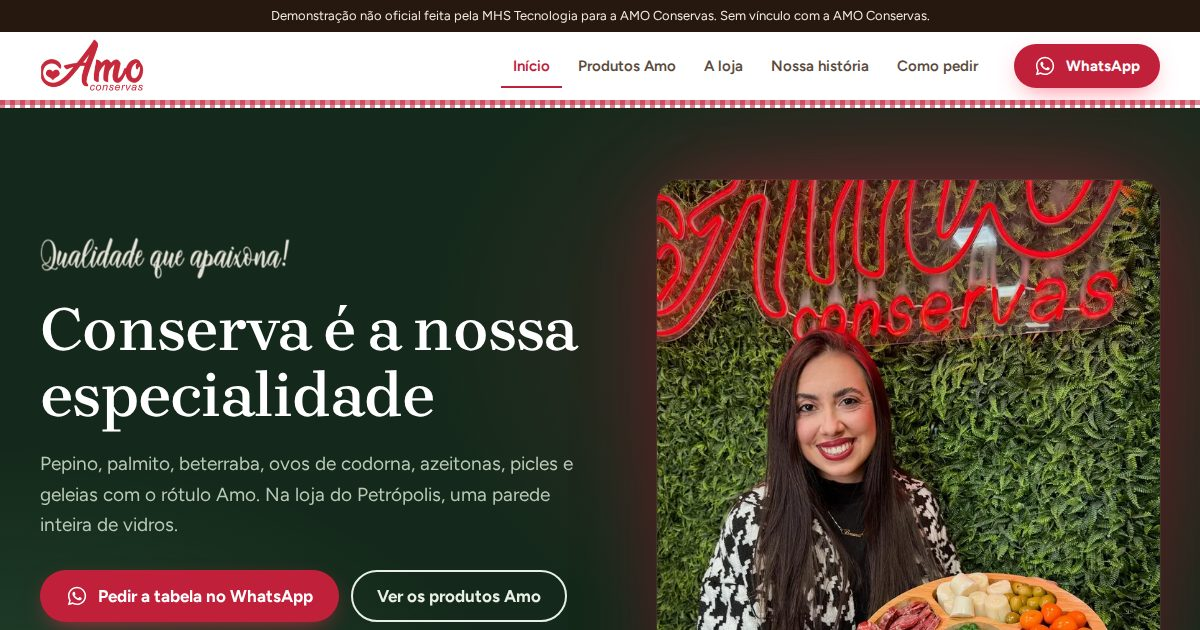
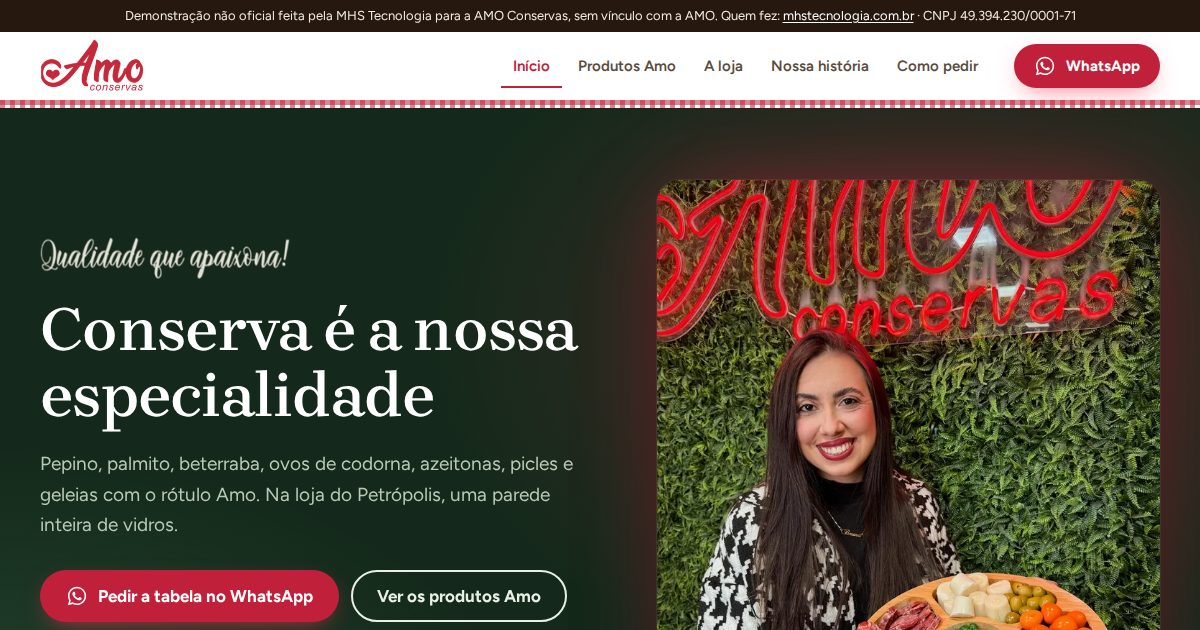
Previews: 23 ativos

Changed region(s): [[0.0925, 0.0, 0.8942, 0.0603]]

diff --git a/amo-conservas-joinville-sc/como-pedir.html b/amo-conservas-joinville-sc/como-pedir.html
@@ -14,7 +14,7 @@
 <script>document.documentElement.classList.add('js')</script>
 </head>
 <body>
-<div class="aviso" role="note">Demonstração não oficial feita pela MHS Tecnologia para a AMO Conservas. Sem vínculo com a AMO Conservas.</div>
+<div class="aviso" role="note">Demonstração não oficial feita pela MHS Tecnologia para a AMO Conservas, sem vínculo com a AMO. Quem fez: <a href="https://mhstecnologia.com.br/pt">mhstecnologia.com.br</a> · CNPJ 49.394.230/0001-71</div>
 <header class="cab">
   <div class="wrap">
     <a class="marca" href="index.html" aria-label="Amo Conservas, página inicial"><img src="img/logo-200.webp" srcset="img/logo-200.webp 1x, img/logo-400.webp 2x" width="200" height="104" alt="Amo Conservas"></a>

diff --git a/amo-conservas-joinville-sc/historia.html b/amo-conservas-joinville-sc/historia.html
@@ -15,7 +15,7 @@
 <script>document.documentElement.classList.add('js')</script>
 </head>
 <body>
-<div class="aviso" role="note">Demonstração não oficial feita pela MHS Tecnologia para a AMO Conservas. Sem vínculo com a AMO Conservas.</div>
+<div class="aviso" role="note">Demonstração não oficial feita pela MHS Tecnologia para a AMO Conservas, sem vínculo com a AMO. Quem fez: <a href="https://mhstecnologia.com.br/pt">mhstecnologia.com.br</a> · CNPJ 49.394.230/0001-71</div>
 <header class="cab">
   <div class="wrap">
     <a class="marca" href="index.html" aria-label="Amo Conservas, página inicial"><img src="img/logo-200.webp" srcset="img/logo-200.webp 1x, img/logo-400.webp 2x" width="200" height="104" alt="Amo Conservas"></a>

diff --git a/amo-conservas-joinville-sc/loja.html b/amo-conservas-joinville-sc/loja.html
@@ -15,7 +15,7 @@
 <script>document.documentElement.classList.add('js')</script>
 </head>
 <body>
-<div class="aviso" role="note">Demonstração não oficial feita pela MHS Tecnologia para a AMO Conservas. Sem vínculo com a AMO Conservas.</div>
+<div class="aviso" role="note">Demonstração não oficial feita pela MHS Tecnologia para a AMO Conservas, sem vínculo com a AMO. Quem fez: <a href="https://mhstecnologia.com.br/pt">mhstecnologia.com.br</a> · CNPJ 49.394.230/0001-71</div>
 <header class="cab">
   <div class="wrap">
     <a class="marca" href="index.html" aria-label="Amo Conservas, página inicial"><img src="img/logo-200.webp" srcset="img/logo-200.webp 1x, img/logo-400.webp 2x" width="200" height="104" alt="Amo Conservas"></a>

diff --git a/amo-conservas-joinville-sc/produtos.html b/amo-conservas-joinville-sc/produtos.html
@@ -15,7 +15,7 @@
 <script>document.documentElement.classList.add('js')</script>
 </head>
 <body>
-<div class="aviso" role="note">Demonstração não oficial feita pela MHS Tecnologia para a AMO Conservas. Sem vínculo com a AMO Conservas.</div>
+<div class="aviso" role="note">Demonstração não oficial feita pela MHS Tecnologia para a AMO Conservas, sem vínculo com a AMO. Quem fez: <a href="https://mhstecnologia.com.br/pt">mhstecnologia.com.br</a> · CNPJ 49.394.230/0001-71</div>
 <header class="cab">
   <div class="wrap">
     <a class="marca" href="index.html" aria-label="Amo Conservas, página inicial"><img src="img/logo-200.webp" srcset="img/logo-200.webp 1x, img/logo-400.webp 2x" width="200" height="104" alt="Amo Conservas"></a>

diff --git a/amo-conservas-joinville-sc/index.html b/amo-conservas-joinville-sc/index.html
@@ -22,7 +22,7 @@
 <meta property="og:image:height" content="630">
 </head>
 <body>
-<div class="aviso" role="note">Demonstração não oficial feita pela MHS Tecnologia para a AMO Conservas. Sem vínculo com a AMO Conservas.</div>
+<div class="aviso" role="note">Demonstração não oficial feita pela MHS Tecnologia para a AMO Conservas, sem vínculo com a AMO. Quem fez: <a href="https://mhstecnologia.com.br/pt">mhstecnologia.com.br</a> · CNPJ 49.394.230/0001-71</div>
 <header class="cab">
   <div class="wrap">
     <a class="marca" href="index.html" aria-label="Amo Conservas, página inicial"><img src="img/logo-200.webp" srcset="img/logo-200.webp 1x, img/logo-400.webp 2x" width="200" height="104" alt="Amo Conservas"></a>

diff --git a/amo-conservas-joinville-sc/estilo.css b/amo-conservas-joinville-sc/estilo.css
@@ -640,3 +640,4 @@ p { margin: 0; text-wrap: pretty; }
 .duo-card .duo-acoes { margin-top: auto; padding-top: 16px; }
 .selo-novo { position: absolute; top: 12px; left: 12px; z-index: 1; background: var(--vermelho); color: #fff; font-weight: 700; font-size: .8125rem; padding: 6px 12px; border-radius: 999px; box-shadow: 0 6px 16px -6px rgba(0,0,0,.5); }
 @media (max-width: 760px) { .duo { grid-template-columns: 1fr; } }
+.aviso a { color: #fff; text-decoration: underline; text-underline-offset: 2px; }
